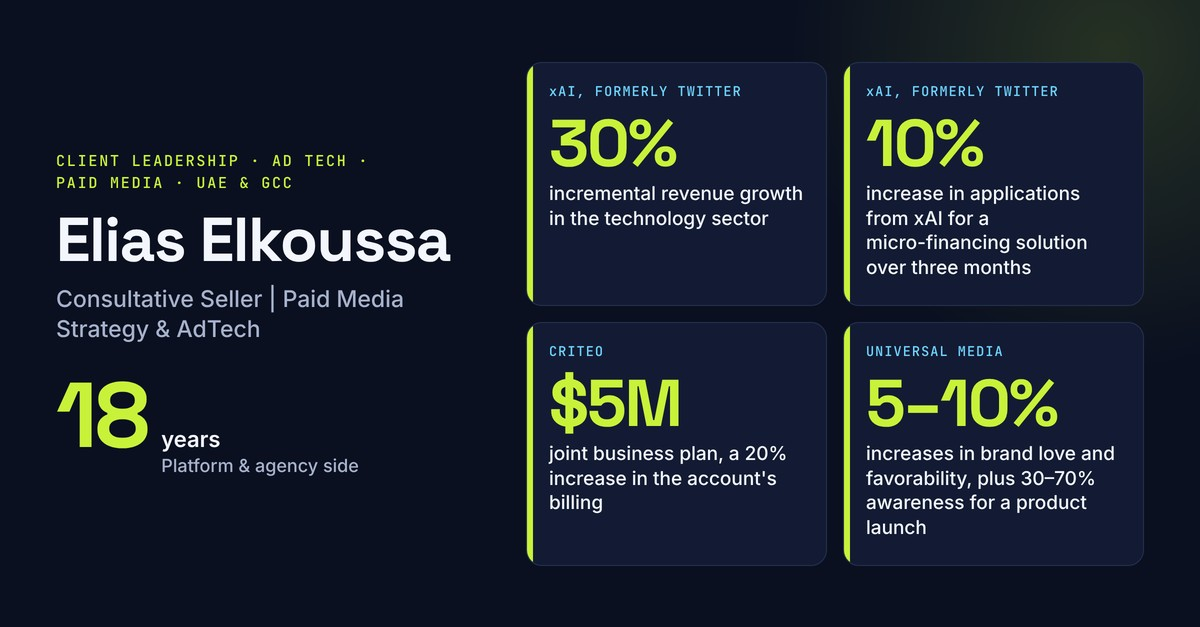
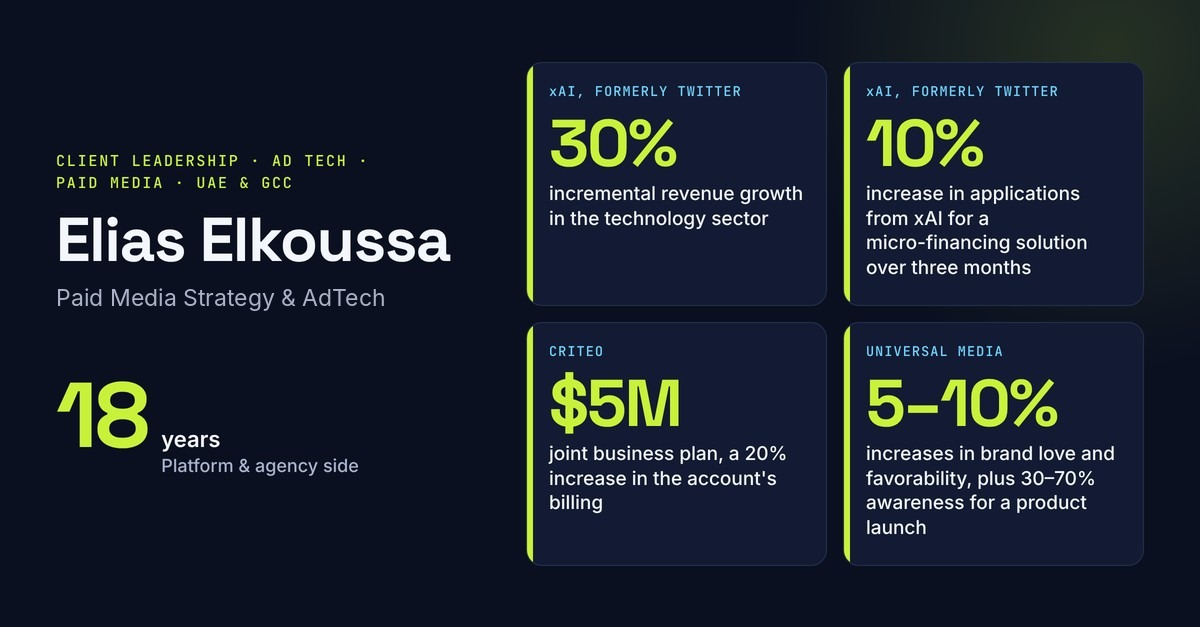
Add files via upload

Changed region(s): [[0.0308, 0.4545, 0.3392, 0.5455]]

diff --git a/index.html b/index.html
@@ -3,16 +3,16 @@
 <head>
 <meta charset="utf-8">
 <meta name="viewport" content="width=device-width, initial-scale=1, viewport-fit=cover">
-<title>Elias Elkoussa | Consultative Seller, Paid Media Strategy &amp; AdTech</title>
-<meta name="description" content="Elias Elkoussa: Consultative Seller, Paid Media Strategy and AdTech, Dubai. Key results from 18 years, and my full resume.">
+<title>Elias Elkoussa | Paid Media Strategy &amp; AdTech</title>
+<meta name="description" content="Elias Elkoussa: Paid Media Strategy and AdTech, Dubai. Key results from 18 years, and my full resume.">
 <meta property="og:type" content="website">
 <meta property="og:url" content="https://eliaselkoussa.github.io/">
-<meta property="og:title" content="Elias Elkoussa | Consultative Seller, Paid Media Strategy &amp; AdTech">
-<meta property="og:description" content="Elias Elkoussa: Consultative Seller, Paid Media Strategy and AdTech, Dubai. Key results from 18 years, and my full resume.">
-<meta property="og:image" content="https://eliaselkoussa.github.io/link-preview.jpg?v=2">
+<meta property="og:title" content="Elias Elkoussa | Paid Media Strategy &amp; AdTech">
+<meta property="og:description" content="Elias Elkoussa: Paid Media Strategy and AdTech, Dubai. Key results from 18 years, and my full resume.">
+<meta property="og:image" content="https://eliaselkoussa.github.io/link-preview.jpg?v=3">
 <meta property="og:image:width" content="1200">
 <meta property="og:image:height" content="627">
-<meta property="og:image:alt" content="Elias Elkoussa, Consultative Seller | Paid Media Strategy &amp; AdTech: key results">
+<meta property="og:image:alt" content="Elias Elkoussa, Paid Media Strategy &amp; AdTech: key results">
 <meta name="twitter:card" content="summary_large_image">
 <link rel="preconnect" href="https://fonts.googleapis.com">
 <link rel="preconnect" href="https://fonts.gstatic.com" crossorigin>
@@ -186,7 +186,7 @@ footer b{color:var(--ink)}
     <header class="r-head">
       <span class="eyebrow">Resume</span>
       <h2 class="r-name" id="r-name">Elias Elkoussa</h2>
-      <p class="r-role">Consultative Seller | Paid Media Strategy &amp; AdTech</p>
+      <p class="r-role">Paid Media Strategy &amp; AdTech</p>
       <ul class="contact">
         <li><span>Dubai, United Arab Emirates</span></li>
         <li><a href="https://www.linkedin.com/in/elias-elkoussa-06a59b196/" target="_blank" rel="noopener">linkedin.com/in/elias-elkoussa-06a59b196</a></li>
